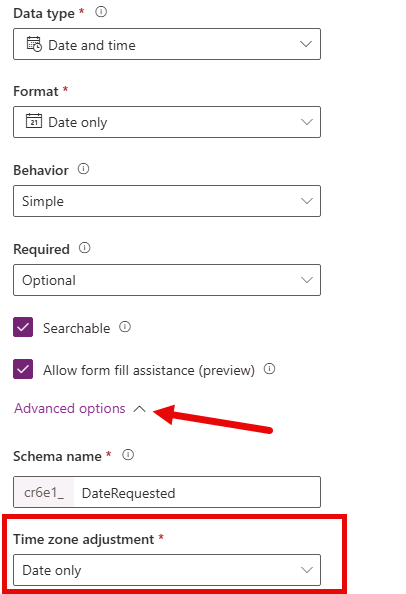
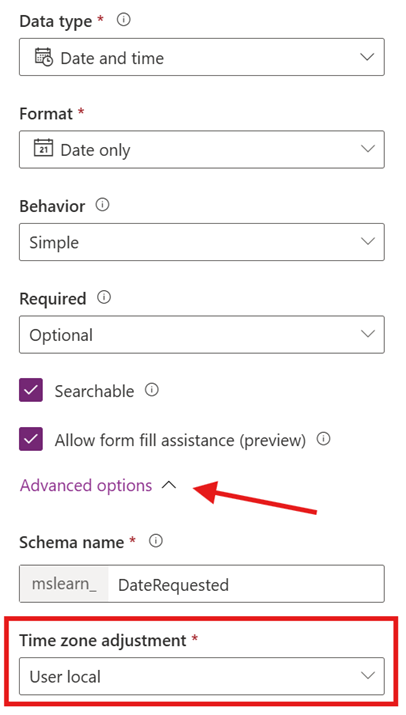
fix(lab01/ex01/t02): replace outdated date options and choice column screenshots

diff --git a/Instructions/Labs/LAB[PL-900]Lab1_Data_Model.md b/Instructions/Labs/LAB[PL-900]Lab1_Data_Model.md
@@ -52,7 +52,7 @@ Contoso needs a central place to store facilities request data. You will create 
 
 ## Task 1: Create the Facility Request table
 
-1.  Navigate to <https://make.powerapps.com> and sign in with the credentials you were provided with (*Available from the Resources tab of your lab environment. Use* **Administrative Username** *and* **Administrative Password**).
+1.  Navigate to <https://make.powerapps.com> and sign in with the credentials provided (*Available from the Resources tab of your lab environment. Use* **Administrative Username** *and* **Administrative Password**).
 1.  Ensure you are in the correct environment (**Dev One**) by checking the Environment picker in the upper-right corner of the screen.
 1.  In the left navigation pane, select **Tables**.
 1.  Select **+ New table** drop down, and from the menu that appears choose **Table (advanced properties)**
@@ -92,34 +92,34 @@ Next, we will need to create some columns to store information from each request
     - **Data Type:** Date and time
     - **Format:** Date Only
 1.  Expand **Advanced Options** and set **Time Zone adjustment** to **User Local**.
+
+    ![Screenshot showing Advanced Date Options](media/38a5e902e3c70c7324af36c9ee610287.png)
+
 1.  Select the **Save** button.
-
-    ![Screen shot showing Advanced Date Options](media/38a5e902e3c70c7324af36c9ee610287.png)
-
 1.  Under **Facility Request columns and data** select the **+** button again.
 1.  Configure your new column as follows:
 	- **Display name:** Estimated Cost
     - **Data Type:** Currency
+
+    ![Screenshot showing creating a currency column](media/4427d39adbbe4bbf4fab7d7b982f6c8b.png)
+
 1.  Select the **Save** button.
-
-	![Screenshot showing creating a currency column](media/4427d39adbbe4bbf4fab7d7b982f6c8b.png)
-
 1.  Under **Facility Request columns and data** select the **+** button again.
 1.  Configure your new column as follows:
     - **Display name:** Category
     - **Data Type:** Choice (Choice)
 1.  Under **Sync with Global Choice**, select **No**.
-1.  Under **Choices**, set the **Label** to **Maintenance.**
+1.  Under **Choices**, set the **Label** to **Maintenance**.
 1.  Select **+ New Choice** and set the label to **Equipment**.
 1.  Repeat the last step until you have added the following labels:
     - Supplies
     - Room Setup
     - Other
 1.  Set **Default Choice** to **None**
+
+    ![Screenshot showing Choice Column](media/3e25a1f222488af40533dbd0137f54de.png)
+
 1.  Select the **Save** button.
-
-	![Screenshot showing Choice Column](media/3e25a1f222488af40533dbd0137f54de.png)
-
 1.  Repeat steps 13 – 20 to add the following choice columns with values:
 
 | **Column Display Name** | **Data Type** | **Additional Settings**                                        |
